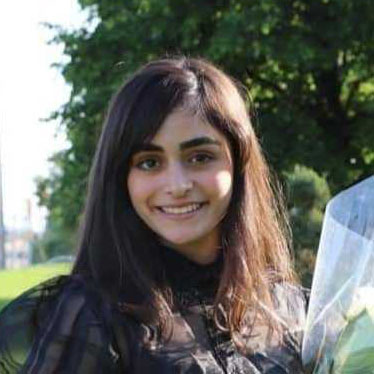
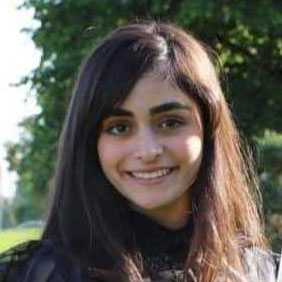
Added photos
Included updated photos for Doris, Justin, Jared
Added photos for Ben, Chamath, Francis, Nadine, Ronald and Tommy

diff --git a/css/team.css b/css/team.css
@@ -377,3 +377,8 @@
     background: url('../images/members/nadine.jpg');
     background-size: cover;
 }
+
+#justin {
+    background: url('../images/members/justin.jpg');
+    background-size: cover;
+}
